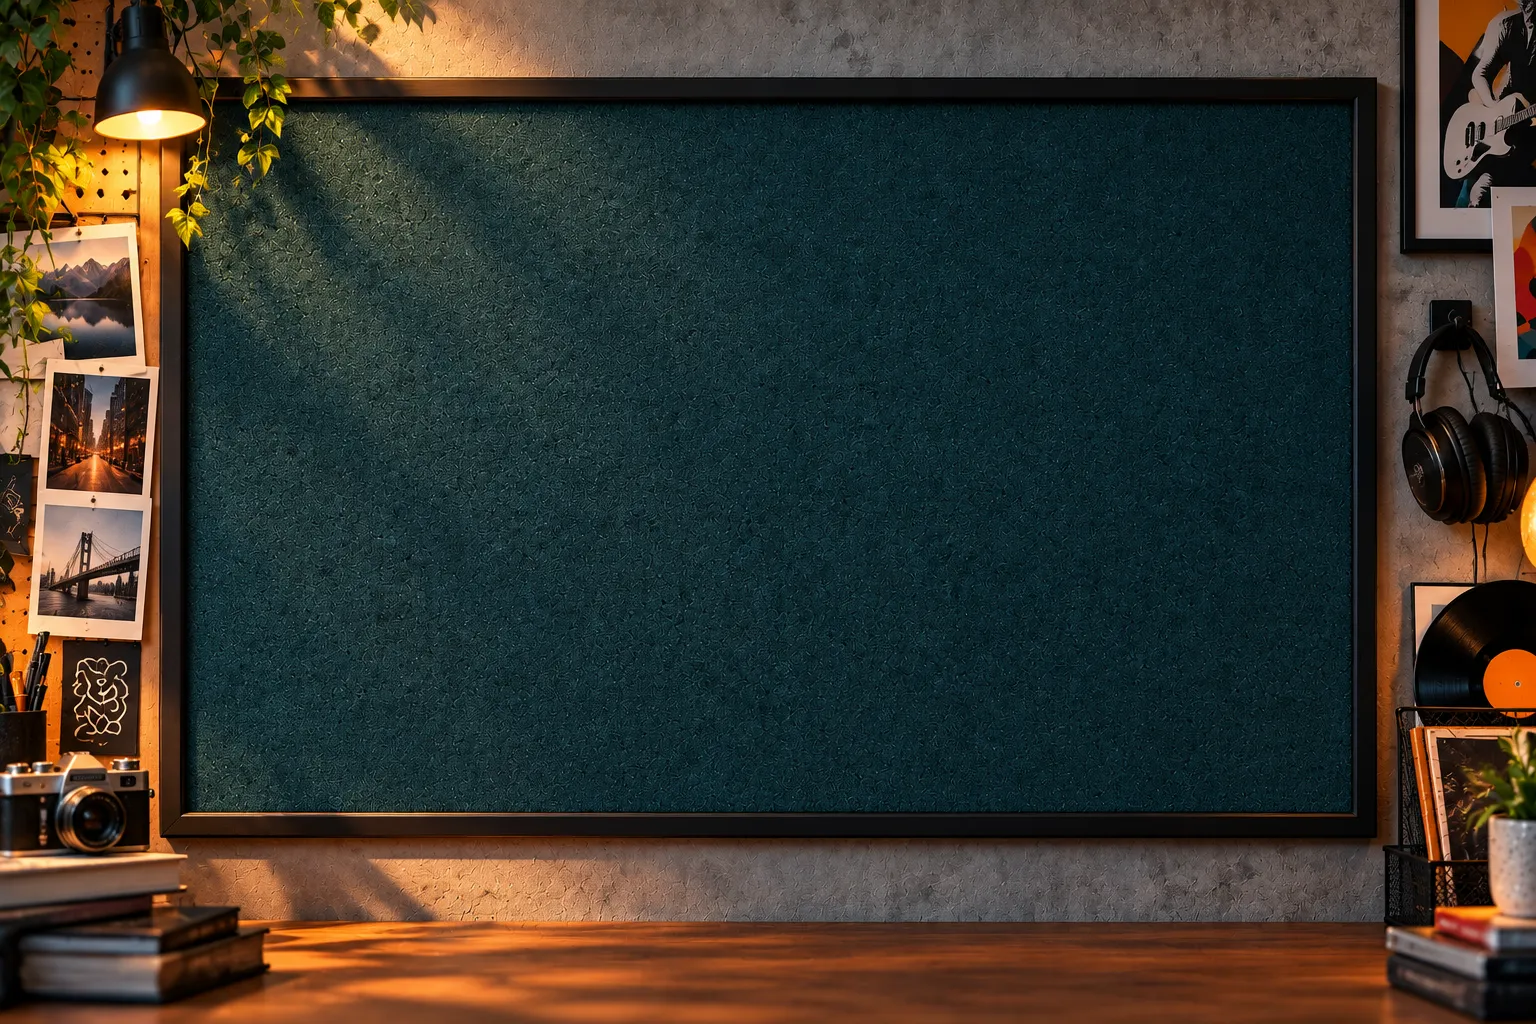
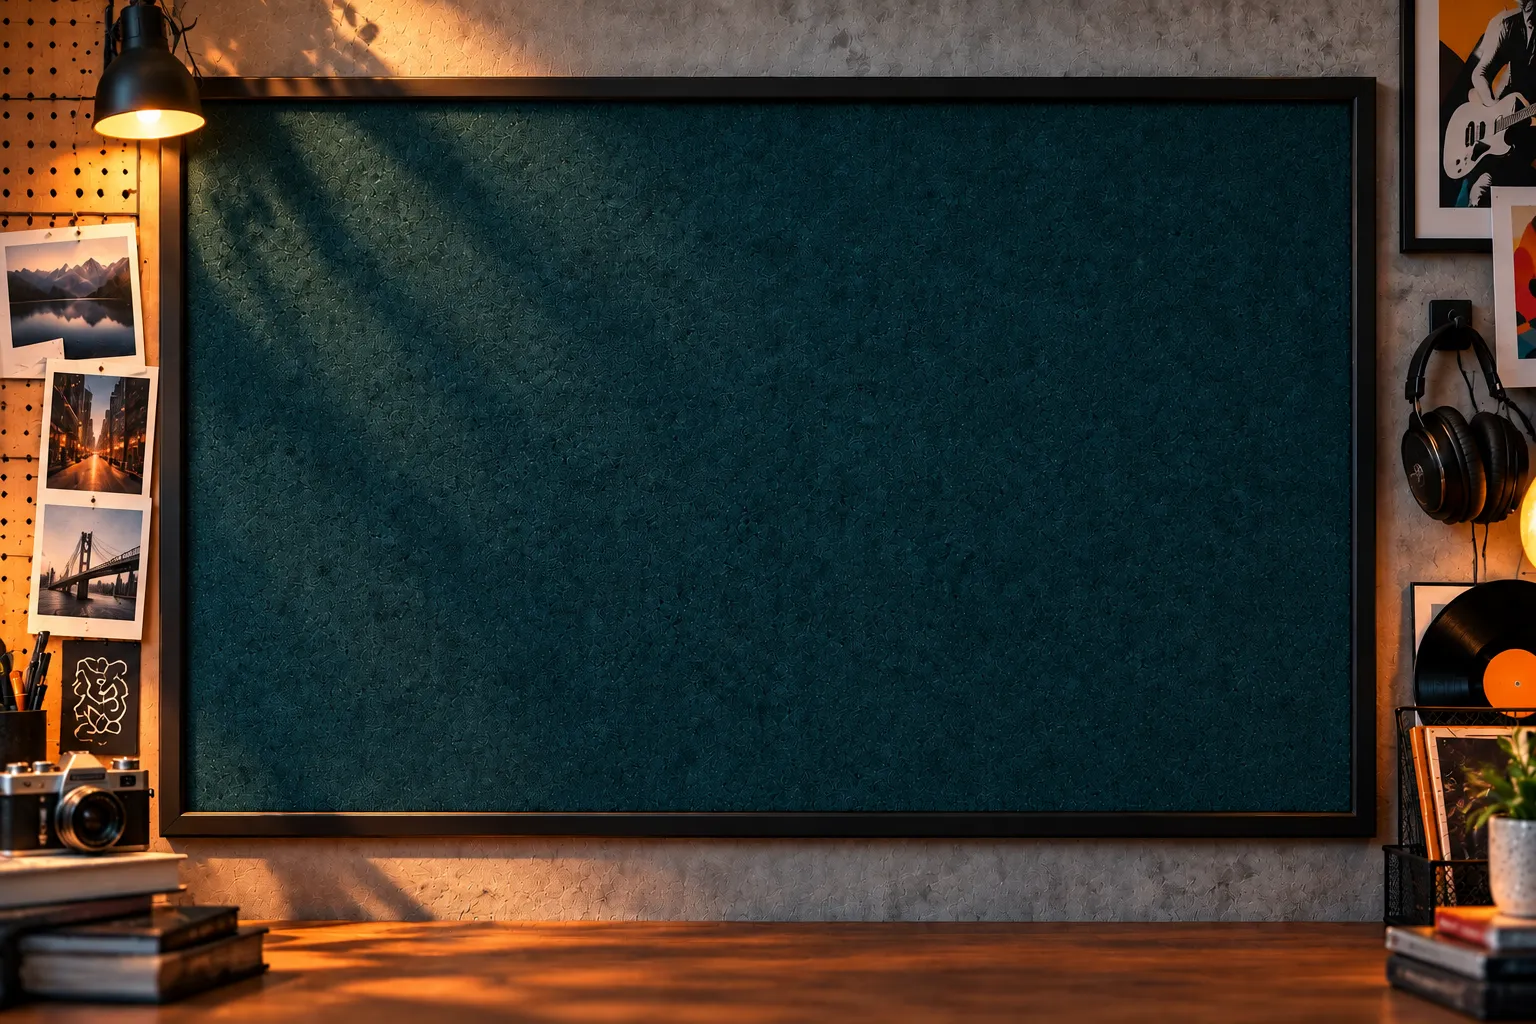
Quadro Criativo: nova imagem

diff --git a/src/lib/boards.ts b/src/lib/boards.ts
@@ -16,7 +16,7 @@ export type BoardInfo = {
 
 export const BOARDS: readonly BoardInfo[] = [
   { id: "cortica", name: "Cortiça", image: "/img/quadro-desktop.webp", cork: { left: 11.2, top: 8, width: 79.4, height: 76.2 }, size: 1 },
-  { id: "criativo", name: "Criativo", image: "/img/quadro-criativo.webp", cork: { left: 12.6, top: 9.2, width: 75.4, height: 69.5 }, size: 1 },
+  { id: "criativo", name: "Criativo", image: "/img/quadro-criativo.webp?v=2", cork: { left: 12.6, top: 9.2, width: 75.4, height: 69.5 }, size: 1 },
   { id: "geek", name: "Geek", image: "/img/quadro-geek.webp", cork: { left: 12.9, top: 8.2, width: 76, height: 71.1 }, size: 1 },
   { id: "leitura", name: "Leitura", image: "/img/quadro-leitura.webp", cork: { left: 15.5, top: 9.3, width: 68.4, height: 65.6 }, size: 0.86 },
   { id: "minimalista", name: "Minimalista", image: "/img/quadro-minimalista.webp", cork: { left: 12.4, top: 9.3, width: 76.2, height: 69.4 }, size: 1 },
